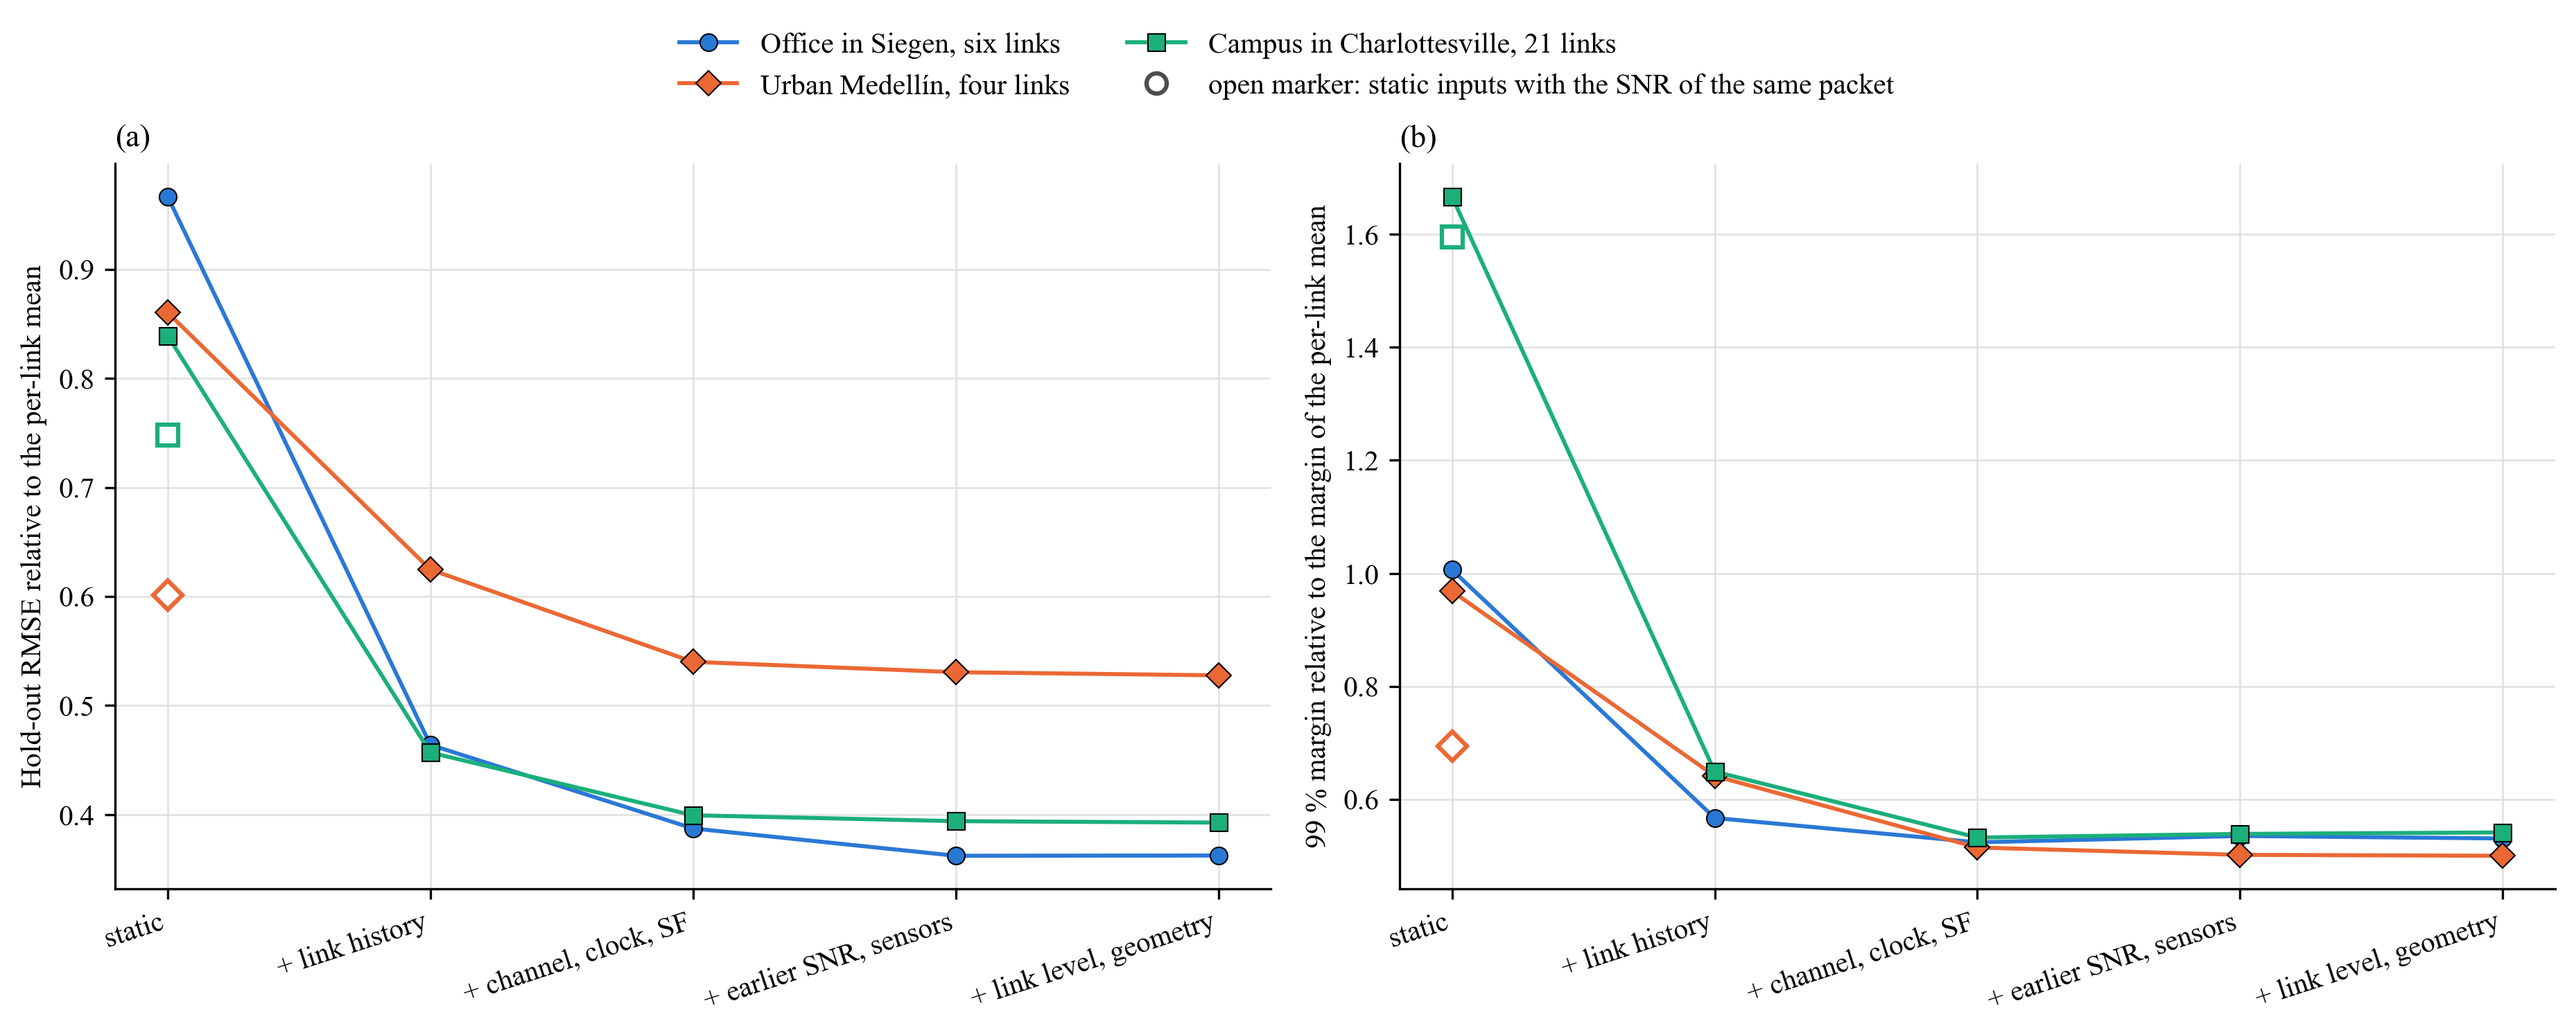
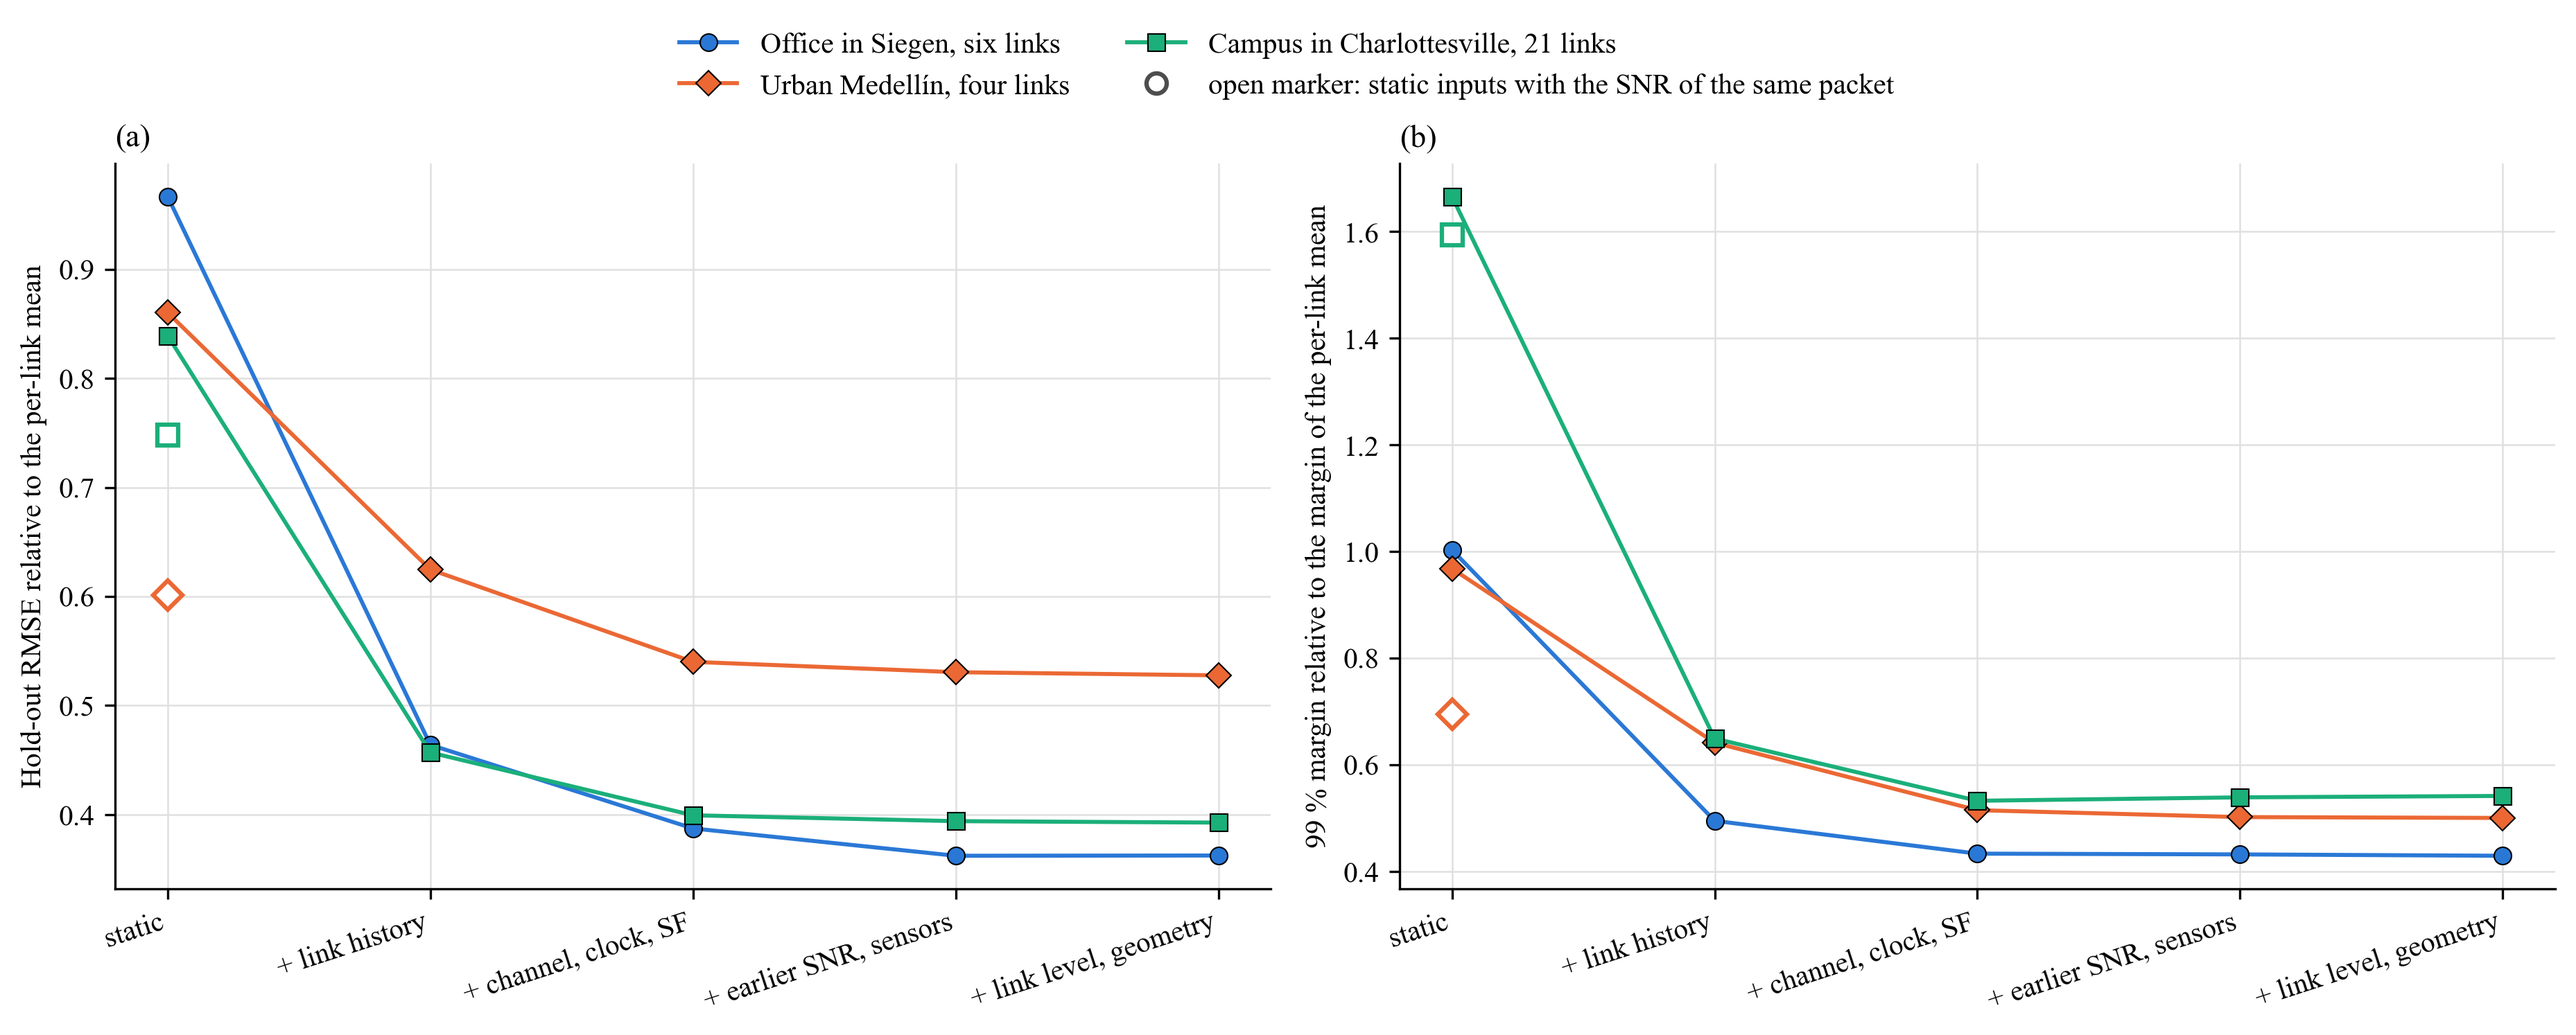
README: one margin rule throughout (static 17.9-18.6 dB, history rungs 6.7-9.9 dB, office ratio 43 %), figures refreshed, GRU rows

diff --git a/README.md b/README.md
@@ -10,7 +10,7 @@
 
 This study compares analytical and empirical indoor propagation laws, linear models, tree ensembles, nearest-neighbour regression and neural networks on a later period of LoRaWAN path loss measurements. It then uses out-of-fold errors to estimate fade margins at specified residual-coverage targets, and asks how those margins depend on what the predictor knows: geometry and environmental sensors only, or also the link's own earlier packets.
 
-RMSE and the upper residual tail are distinct objectives. With geometry and sensors alone the 99% fade margin is 18.8 to 19.3 dB for every model, although held-out RMSE ranges from 4.8 to 6.4 dB. With the link's earlier packets it falls to 8.8 to 11.8 dB when calibrated on the whole year, which includes SF11 and SF12 rows that the hold-out lacks. A margin that also conditions on the spreading factor and the state of the link needs 4 to 5 dB on the hold-out. Notebooks 17 to 22 test the margins as quantile forecasts, compare the history models with the estimators of adaptive data rate schemes, measure what each group of inputs adds, repeat the ladder on two public datasets, and report the mean absolute error and the correlation within each link.
+RMSE and the upper residual tail are distinct objectives. With geometry and sensors alone the 99% fade margin is 17.9 to 18.6 dB for every model, although held-out RMSE ranges from 4.8 to 6.4 dB. With the link's earlier packets it falls to 6.7 to 9.9 dB when calibrated on the whole year, which includes SF11 and SF12 rows that the hold-out lacks. A margin that also conditions on the spreading factor and the state of the link needs 4 to 5 dB on the hold-out. Notebooks 17 to 22 test the margins as quantile forecasts, compare the history models with the estimators of adaptive data rate schemes, measure what each group of inputs adds, repeat the ladder on two public datasets, and report the mean absolute error and the correlation within each link.
 
 ## Experimental design
 
@@ -39,19 +39,19 @@ Early stopping uses the latest part of each training set in time order: the late
 
 | Model | Out-of-fold RMSE | Held-out RMSE | Held-out R² | 95% margin | 99% margin |
 |---|---|---|---|---|---|
-| COST 231 multi-wall (calibrated) | 7.27 | 6.38 | 0.845 | 11.6 | 18.9 |
-| Linear regression (Lasso) | 6.56 | 5.25 | 0.895 | 11.2 | 19.2 |
-| Random forest | 6.32 | 4.93 | 0.907 | 11.0 | 19.2 |
-| XGBoost | 6.36 | 4.83 | 0.911 | 11.3 | 19.2 |
-| LightGBM | 6.34 | 4.87 | 0.910 | 10.7 | 19.2 |
-| k-nearest neighbours | 6.44 | 4.78 | 0.913 | 10.9 | 18.8 |
-| ANN (MLP) | 6.58 | 5.09 | 0.901 | 11.7 | 19.3 |
+| COST 231 multi-wall (calibrated) | 7.27 | 6.38 | 0.845 | 11.6 | 18.6 |
+| Linear regression (Lasso) | 6.56 | 5.25 | 0.895 | 11.2 | 18.2 |
+| Random forest | 6.32 | 4.93 | 0.907 | 11.0 | 18.2 |
+| XGBoost | 6.36 | 4.83 | 0.911 | 11.3 | 18.2 |
+| LightGBM | 6.34 | 4.87 | 0.910 | 10.7 | 18.4 |
+| k-nearest neighbours | 6.44 | 4.78 | 0.913 | 10.9 | 17.9 |
+| ANN (MLP) | 6.58 | 5.09 | 0.901 | 11.7 | 18.6 |
 
 *RMSE in dB. Out-of-fold RMSE pools the 1,773,515 validation rows; R² is computed from the held-out residual files; margins in dB at the 95% and 99% residual-coverage targets.*
 
 kNN leads at 4.78 dB (95% CI 4.54 to 5.02), with XGBoost at 4.83 and LightGBM at 4.87 dB; the paired block bootstrap does not separate these three. All three are resolved ahead of the random forest, by 0.06 to 0.15 dB, and of the linear model, by 0.38 to 0.47 dB; kNN and XGBoost are also resolved ahead of the ANN, by 0.30 and 0.26 dB. The kNN's $k$ was searched from 100 to 50,000 together with the metric, the weighting and the scaling; the selected $k$ = 30,677 (Manhattan distance, distance weights) lies inside that range; it is 1.4% of the training rows, about 9% of the packets of one link, so the prediction is a heavily smoothed average. Every data-driven model beats the calibrated COST 231 multi-wall model by at least 1.1 dB and the fixed-parameter propagation models by at least 1.9 dB.
 
-At a 99% residual-coverage target every static model needs 18.8 to 19.3 dB, at 98% 16.0 to 16.7 dB and at 95% 10.7 to 11.7 dB; the largest saving against the linear model at 99% is 0.43 dB, for kNN. At the 98% and 99% targets calibration takes the conservative maximum of the empirical and three-component Gaussian-mixture tail estimates; the 95% target uses the empirical quantile. Held-out coverage at the 99% margin is 99.7 to 99.8%, and a fixed 10 dB margin reaches 96.0 to 98.2%. Empirical-quantile intervals use device-aware moving blocks; Gaussian-mixture tail intervals are parametric.
+At a 99% residual-coverage target every static model needs 17.9 to 18.6 dB, at 98% 14.8 to 15.6 dB and at 95% 10.7 to 11.7 dB; the differences between the learned models (0.7 dB at 99%) are of the size of their mean biases, so no model is singled out by its margin. Every margin in this repository is the empirical quantile of the out-of-fold residuals, the split-conformal shift of `margin_tools.py`; a three-component Gaussian-mixture tail estimate is reported next to it as a sensitivity check and lies 0.3 to 1.0 dB above it for the static models. Held-out coverage at the 99% margin is 99.6 to 99.8%, and a fixed 10 dB margin reaches 96.0 to 98.2%. Intervals come from a device-aware moving-block bootstrap.
 
 ### Link history
 
@@ -63,17 +63,17 @@ From here the response is the deviation of path loss from the link's previous-ho
 
 | Family | Geometry + sensors | + link history | + channel, clock, SF | + earlier SNR, sensors | + link level, geometry |
 |---|---|---|---|---|---|
-| Linear regression | 5.25 / 19.2 | 2.51 / 11.8 | 2.39 / 11.7 | 2.37 / 11.4 | 2.37 / 11.4 |
-| Random forest | 4.93 / 19.2 | 2.35 / 11.0 | 1.98 / 10.2 | 1.87 / 10.5 | 1.87 / 10.4 |
-| XGBoost | 4.83 / 19.2 | 2.34 / 10.9 | 1.95 / 10.0 | 1.82 / 10.2 | 1.82 / 10.1 |
-| LightGBM | 4.87 / 19.2 | 2.34 / 10.8 | 1.95 / 10.0 | 1.82 / 10.2 | 1.82 / 10.1 |
-| k-nearest neighbours | 4.78 / 18.8 | 2.46 / 11.2 | 2.16 / 10.7 | 2.16 / 11.0 | 2.19 / 11.1 |
-| ANN (MLP) | 5.09 / 19.3 | 2.50 / 11.1 | 1.99 / 10.1 | 1.92 / 10.4 | 1.92 / 10.4 |
-| GRU | not defined | 2.53 / 9.2 | 1.97 / 8.8 | 1.90 / 9.1 | 1.92 / 9.0 |
+| Linear regression | 5.25 / 18.2 | 2.51 / 9.9 | 2.39 / 9.8 | 2.37 / 9.9 | 2.37 / 9.9 |
+| Random forest | 4.93 / 18.2 | 2.35 / 9.2 | 1.98 / 8.1 | 1.87 / 8.2 | 1.87 / 8.2 |
+| XGBoost | 4.83 / 18.2 | 2.34 / 9.1 | 1.95 / 7.9 | 1.82 / 7.9 | 1.82 / 7.9 |
+| LightGBM | 4.87 / 18.4 | 2.34 / 9.1 | 1.95 / 7.9 | 1.82 / 7.9 | 1.82 / 7.9 |
+| k-nearest neighbours | 4.78 / 17.9 | 2.46 / 9.6 | 2.16 / 9.0 | 2.16 / 9.2 | 2.19 / 9.4 |
+| ANN (MLP) | 5.09 / 18.6 | 2.50 / 9.4 | 1.99 / 8.0 | 1.92 / 8.0 | 1.92 / 8.0 |
+| GRU | not defined | 2.53 / 7.5 | 1.96 / 6.9 | 1.90 / 6.8 | 1.91 / 6.7 |
 
-*Hold-out RMSE / 99% fade margin, both in dB. The first column is the static model of the table above. The GRU reads the last 30 packets of the link, with the windows that reach further back as static inputs, and is defined only where a history exists. Without a fitted model: link mean 5.04 dB / 19.0 dB; previous-hour mean 2.71 dB / 12.0 dB; previous packet 3.04 dB / 12.5 dB.*
+*Hold-out RMSE / 99% fade margin, both in dB. The first column is the static model of the table above. The GRU reads the last 30 packets of the link, with the windows that reach further back as static inputs, and is defined only where a history exists. Without a fitted model: link mean 5.04 dB / 18.3 dB; previous-hour mean 2.71 dB / 10.6 dB; previous packet 3.04 dB / 12.0 dB.*
 
-Adding the link's earlier packets halves RMSE and brings the 99% margin from about 19 dB to between 8.8 and 11.8 dB in every family. The later rungs lower RMSE further, to 1.8 dB for the boosted trees, but change the margin by less than 1 dB: channel, clock, spreading factor, earlier SNR, sensors and geometry do not reduce the deep-fade tail. At the last rung the boosted trees, the random forest, the ANN and the GRU end between 1.82 and 1.92 dB; kNN and the linear model are 0.4 to 0.6 dB behind. The GRU reads the raw sequence of the last 30 packets, with spreading factor and channel as indicators; it matches the engineered windows and does not improve on them.
+Adding the link's earlier packets halves RMSE and brings the 99% margin from about 18 dB to between 7.5 and 9.9 dB in every family. The later rungs lower RMSE further, to 1.8 dB for the boosted trees, and the margin by at most 1.4 dB more (the boosted trees reach 7.9 dB, the GRU 6.7 dB): channel, clock, spreading factor, earlier SNR, sensors and geometry reduce the deep-fade tail only a little. At the last rung the boosted trees, the random forest, the ANN and the GRU end between 1.82 and 1.92 dB; kNN and the linear model are 0.4 to 0.6 dB behind. The GRU reads the raw sequence of the last 30 packets, with spreading factor and channel as indicators; it matches the engineered windows and does not improve on them.
 
 Fitted on five links and tested on the sixth (rung 2), the tree ensembles and the GRU reach 2.0 dB on average and 2.2 dB on the worst link, within 0.1 dB of the same models with the link in training; the ANN reaches 2.1 dB, kNN 2.3 dB and the linear model 2.4 dB. Coverage at the calibrated 99% margin is 99.7% on the unseen link (99.6% for the GRU).
 
@@ -95,7 +95,7 @@ Notebook 21 adds the mean absolute error and the Pearson correlation between mea
 | LightGBM + link history | 1.75 [1.73, 1.78] | 2.34 | +0.01 | 0.979 | 0.990 [0.989, 0.990] | +0.84 [+0.82, +0.86] |
 | LightGBM + channel, clock, SF | 1.43 [1.41, 1.45] | 1.95 | +0.00 | 0.986 | 0.993 [0.992, 0.993] | +0.89 [+0.88, +0.91] |
 | LightGBM + link level, geometry | 1.32 [1.30, 1.34] | 1.82 | +0.02 | 0.987 | 0.994 [0.993, 0.994] | +0.91 [+0.89, +0.92] |
-| GRU + channel, clock, SF | 1.45 [1.43, 1.47] | 1.97 | +0.07 | 0.985 | 0.993 [0.992, 0.993] | +0.89 [+0.88, +0.90] |
+| GRU + channel, clock, SF | 1.44 [1.43, 1.46] | 1.96 | +0.08 | 0.985 | 0.993 [0.992, 0.993] | +0.89 [+0.88, +0.90] |
 
 *MAE, RMSE and bias in dB; r is the Pearson correlation between measured and predicted path loss. The first seven rows use geometry and sensors only; the last four use the rungs of the table above.*
 
@@ -139,7 +139,7 @@ Notebook 18 puts the estimators of adaptive data rate schemes on the same footin
 | Estimator of the current path loss | RMSE, dB | Coverage | Mean margin, dB | Pinball loss x 1000 | Difference to LightGBM |
 |---|---|---|---|---|---|
 | LightGBM on rung H4 | 1.95 | 99.3% | 5.03 | 65.3 |  |
-| GRU on rung H4 | 1.97 | 99.3% | 4.95 | 65.6 | +0.3 [+0.0, +0.6] |
+| GRU on rung H4 | 1.96 | 99.3% | 4.96 | 65.4 | +0.1 [-0.2, +0.4] |
 | exponential average, weight 0.1 | 2.62 | 99.4% | 5.69 | 70.9 | +5.5 [+5.1, +6.0] |
 | Kalman filter, drift 0.01 | 2.63 | 99.4% | 5.69 | 71.0 | +5.6 [+5.2, +6.1] |
 | mean of the last 20 | 2.63 | 99.5% | 5.93 | 72.6 | +7.3 [+6.9, +7.7] |
@@ -150,7 +150,7 @@ Notebook 18 puts the estimators of adaptive data rate schemes on the same footin
 | 24 hour mean | 3.29 | 99.3% | 8.87 | 111.4 | +46.0 [+38.2, +55.7] |
 | best of the last 20 | 5.06 | 99.7% | 9.54 | 106.5 | +41.2 [+40.2, +42.3] |
 
-- **The learned history models beat every classical estimator.** The exponential average and the Kalman filter reach 2.62 dB, level with the mean of the last 20 packets, 2.63 dB, and close to the previous-hour mean, 2.71 dB. The LightGBM reaches 1.95 dB and the GRU 1.97 dB. Filtering is not what matters: the learned models gain from the longer windows, the same-channel history, the clock and the spreading factor, which the classical estimators do not use.
+- **The learned history models beat every classical estimator.** The exponential average and the Kalman filter reach 2.62 dB, level with the mean of the last 20 packets, 2.63 dB, and close to the previous-hour mean, 2.71 dB. The LightGBM reaches 1.95 dB and the GRU 1.96 dB. Filtering is not what matters: the learned models gain from the longer windows, the same-channel history, the clock and the spreading factor, which the classical estimators do not use.
 - **The standard rule is the weakest.** The best of the last 20 packets selects the extreme and estimates the level with a 5.06 dB RMSE. A fixed 10 dB above it covers 96.7% at a 99% target; the same 10 dB above the mean of the last 20 packets covers 99.9%.
 
 ### What each group of inputs adds
@@ -193,7 +193,7 @@ Notebook 20 runs the same procedure on the public urban measurements of Gonzále
 
 The figure of the next section draws this ladder next to the office's and the campus data's.
 
-- **The ladder replicates.** The margin falls to 52 to 53% of the static margin from rung H4 on in both datasets, and the later rungs add little.
+- **The ladder replicates.** The margin falls to 52 to 53% of the static margin from rung H4 on, against 43% for the same model in the office, and the later rungs add little.
 - **The SNR of the same packet buys what history buys.** Added to the static inputs it lowers the RMSE from 2.12 to 1.48 dB, close to the 1.54 dB of the link's own history. This is the gain of the published models, and it is leakage: the SNR of a packet is not known before the packet is received.
 - **The refinements of the calibration matter less there.** The data hold one regime, spreading factors 7 to 10 throughout, and the quantile model lowers the pinball loss by 1 to 2%.
 
@@ -228,9 +228,9 @@ Notebook 22 repeats the ladder and the margin comparison on the long-term LoRaWA
 
 ![The ladder on the office data and on the two public datasets](docs/assets/ladder-three-datasets.png)
 
-*Hold-out RMSE (a) and 99% margin (b), both relative to the per-link mean of each dataset, for the office, the Medellín data and the campus data; open markers: the static inputs with the SNR of the same packet. The office margins are the pooled margins of notebook 16, the public ones the single shift of notebooks 20 and 22.*
+*Hold-out RMSE (a) and 99% margin (b), both relative to the per-link mean of each dataset, for the office, the Medellín data and the campus data; open markers: the static inputs with the SNR of the same packet. All three ladders use the same margin, the single shift from the out-of-fold errors of the validation blocks.*
 
-- **The ladder replicates a third time.** With link history, channel, clock and spreading factor the hold-out RMSE is 40% of the per-link mean's (39% in the office, 54% in Medellín) and the 99% margin 53% of the per-link mean's margin (52% in both other datasets). The later rungs add 0.05 dB.
+- **The ladder replicates a third time.** With link history, channel, clock and spreading factor the hold-out RMSE is 40% of the per-link mean's (39% in the office, 54% in Medellín) and the 99% margin 53% of the per-link mean's margin (52% in Medellín, 43% in the office, where the seven families span 38 to 54%). The later rungs add 0.05 dB.
 - **A fixed level does not hold under drift.** The per-link mean's margin, calibrated on the validation year, covers 97.3% of the hold-out; the previous-hour mean and the history rungs 98.8 to 99.1%.
 - **The weather carries the season here, once the training data span it.** The static model reaches 5.82 dB with the weather against 6.81 dB without it: the level of the links to the rooftop gateway moves with the season and the station records that. Its 24 dB margin comes from the first two validation blocks, where weather terms fitted on two to five months were applied to the months that followed (tails of 28 and 22 dB, 13 dB from the third block on); without the weather the static tail equals the per-link mean's. The SNR of the same packet lowers the static RMSE to 5.19 dB, leakage as in Medellín, and does not reach the link's history (3.17 dB).
 
